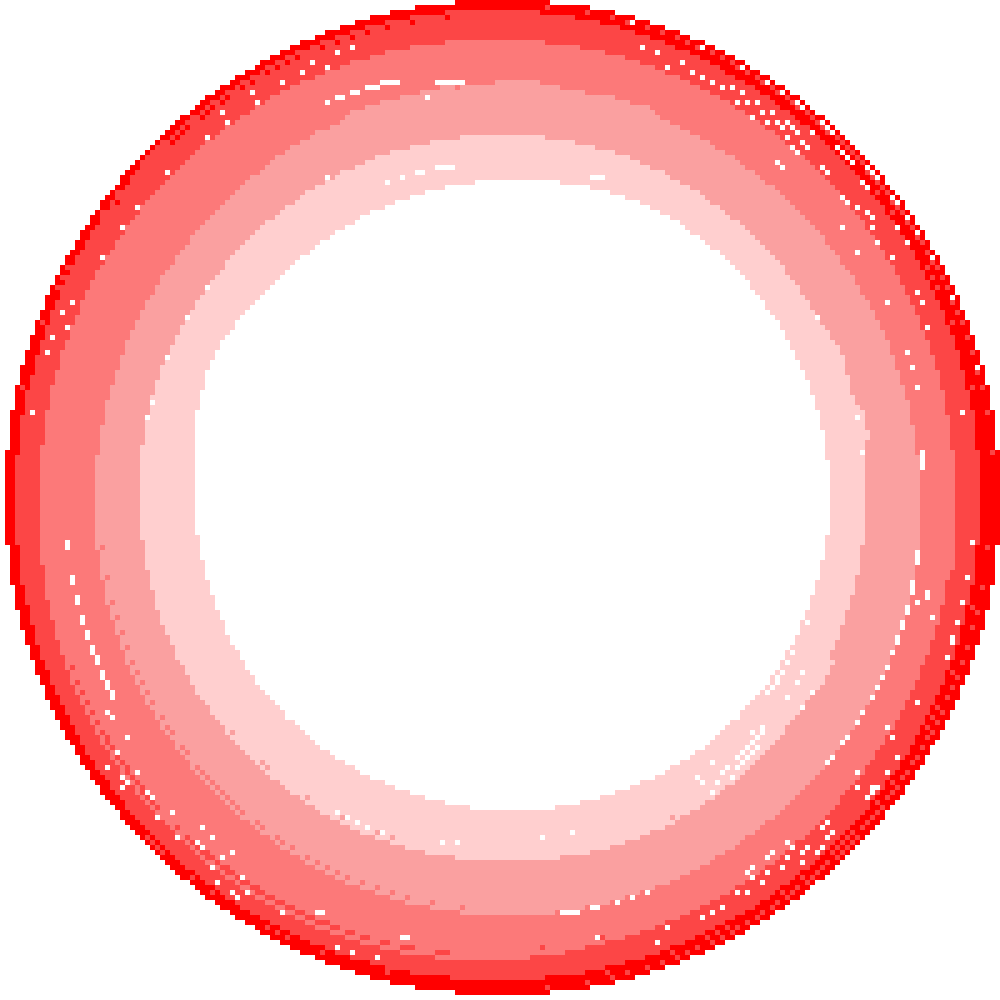
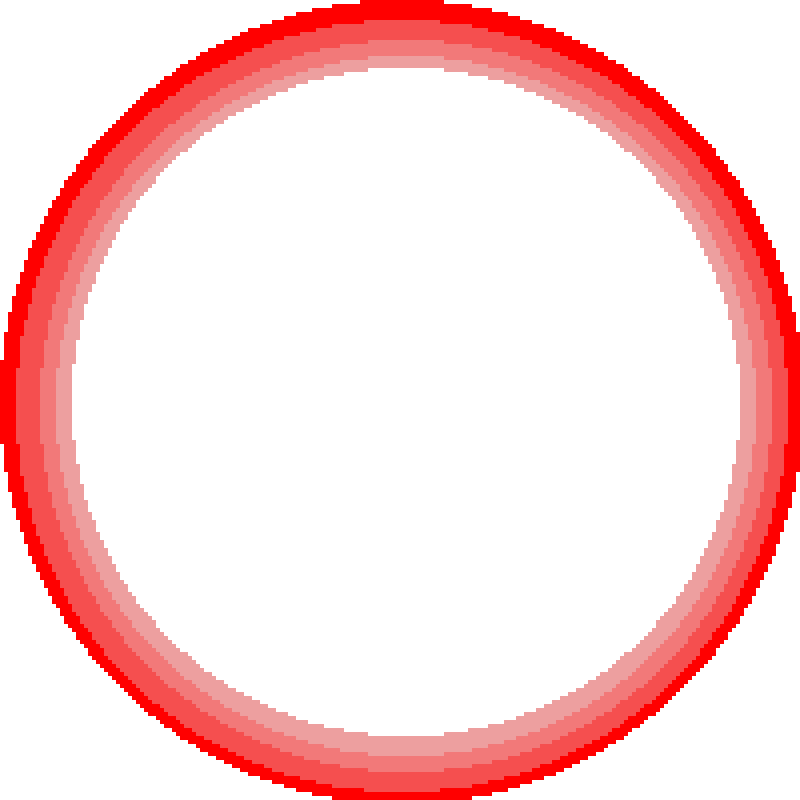
Visual improvement for AOE effect

diff --git a/potatoes/src/main/java/com/deco2800/potatoes/entities/ExplosionProjectile.java b/potatoes/src/main/java/com/deco2800/potatoes/entities/ExplosionProjectile.java
@@ -8,7 +8,7 @@ import java.util.Optional;
 
 public class ExplosionProjectile extends Projectile {
 
-	private final static transient String TEXTURE = "aoe";
+	private final static transient String TEXTURE = "aoe1";
 	private float DAMAGE = 1;
 
 	public ExplosionProjectile() {
@@ -17,25 +17,45 @@ public class ExplosionProjectile extends Projectile {
 
 
 
-	public ExplosionProjectile(float posX, float posY, float posZ,float xLength, float yLength, float zLength, float xRenderLength, float yRenderLength, String TEXTURE, float DAMAGE) {
+	public ExplosionProjectile(float posX, float posY, float posZ,float xLength, float yLength, float zLength, float xRenderLength, float yRenderLength, float DAMAGE) {
 
 		super(posX, posY, posZ, xLength, yLength, zLength, xRenderLength, yRenderLength, TEXTURE);
 		this.DAMAGE = DAMAGE;
 	}
 
 
-	int currentSpriteIndex=1;
-	int timer=0;
+	int currentSpriteIndexCount = 1;
+	String[] currentSpriteIndex = {"aoe1","aoe2","aoe3"};
+	int timer = 0;
 	int dmgTimer = 0;
+
 
 	@Override
 	public void onTick(long time) {
 		timer++;
 		if (timer % 10 == 0) {
-			if (currentSpriteIndex < 3) {
-				currentSpriteIndex++;
+			if (currentSpriteIndexCount < 3) {
+				currentSpriteIndexCount++;
 			} else {
 				//GameManager.get().getWorld().removeEntity(this);
+			}
+		}
+
+
+		timer++;
+		if (timer % 10 == 0) {
+			if (currentSpriteIndexCount <= 2) {
+//                currentSpriteIndexCount++;
+//                System.out.println(currentSpriteIndex[currentSpriteIndexCount]);
+				setTexture(currentSpriteIndex[currentSpriteIndexCount]);
+				if(currentSpriteIndexCount < 3){
+					currentSpriteIndexCount++;
+				}
+
+
+			} else {
+				GameManager.get().getWorld().removeEntity(this);
+
 			}
 		}
 
@@ -45,15 +65,15 @@ public class ExplosionProjectile extends Projectile {
 
 			}
 
-				if (entity instanceof EnemyEntity && this.collidesWith(entity)) {
-					dmgTimer++;
-					if(dmgTimer%16 == 0){
-						((EnemyEntity)entity).getShot(this);
+			if (entity instanceof EnemyEntity && this.collidesWith(entity)) {
+				dmgTimer++;
+				if (dmgTimer % 16 == 0) {
+					((EnemyEntity) entity).getShot(this);
 
-					}
-
-					return;
 				}
+
+				return;
+			}
 
 
 		}

diff --git a/potatoes/src/main/java/com/deco2800/potatoes/entities/trees/TreeProjectileShootEvent.java b/potatoes/src/main/java/com/deco2800/potatoes/entities/trees/TreeProjectileShootEvent.java
@@ -47,17 +47,17 @@ public class TreeProjectileShootEvent extends TimeEvent<AbstractTree> {
 //		GameManager.get().getWorld().addEntity(new HomingProjectile(tree.getPosX(), tree.getPosY(), tree.getPosZ(),
 //				target, tree.getUpgradeStats().getRange(),1));
 
-		if(shootOnce ==0){
-			shootOnce++;
+//		if(shootOnce <=0){
+//			shootOnce++;
 			GameManager.get().getWorld().addEntity(new BallisticProjectile(tree.getPosX(), tree.getPosY(), tree.getPosZ(),
 					target,tree.getPosZ(), tree.getUpgradeStats().getRange(),0));
-		}
+//		}
 
 
 
 
-		GameManager.get().getWorld().addEntity(new HomingProjectile(tree.getPosX(), tree.getPosY(), tree.getPosZ(),
-				target, tree.getUpgradeStats().getRange(),1));
+//		GameManager.get().getWorld().addEntity(new HomingProjectile(tree.getPosX(), tree.getPosY(), tree.getPosZ(),
+//				target, tree.getUpgradeStats().getRange(),1));
 	}
 
 	@Override

diff --git a/potatoes/src/main/java/com/deco2800/potatoes/entities/BallisticProjectile.java b/potatoes/src/main/java/com/deco2800/potatoes/entities/BallisticProjectile.java
@@ -68,7 +68,7 @@ public class BallisticProjectile extends Projectile{
 				float AOE_width = 5f;
 				float AOE_height = 2f;
 				ExplosionProjectile exp = new ExplosionProjectile(goalX - (AOE_width / 2), goalY - (AOE_height / 2), 0,
-						AOE_width, AOE_height, 0, AOE_width, AOE_height, "aoe1", 1);
+						AOE_width, AOE_height, 0, AOE_width, AOE_height, 50);
 				 GameManager.get().getWorld().addEntity(exp);
 
 				return;
